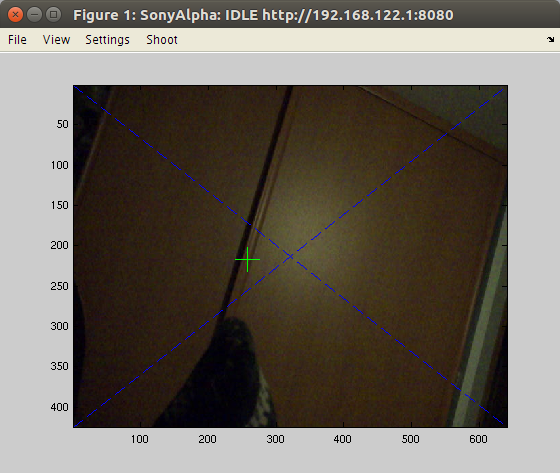
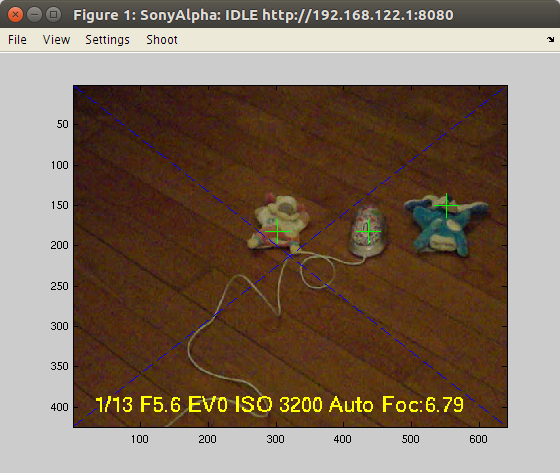
better support for communication errors. Show focus measure.

diff --git a/doc/SonyAlpha.html b/doc/SonyAlpha.html
@@ -321,7 +321,8 @@ href="https://github.com/farhi/matlab-sonyalpha/blob/master/doc/SonyAlpha_image.
       word-spacing: 0px; -webkit-text-stroke-width: 0px;
       text-decoration-style: initial; text-decoration-color: initial;"><br>
       The Plot window is shown when shooting stil images or updating the
-      LiveView. It contains the File, View, Settings and Shoot menus.</p>
+      LiveView. It contains the File, View, Settings and Shoot menus. It also shows the main
+   settings, as well as a focus quality measure (higher is better).</p>
     <p style="box-sizing: border-box; margin-top: 0px; margin-bottom:
       16px; color: rgb(36, 41, 46); font-family: -apple-system,
       BlinkMacSystemFont, &quot;Segoe UI&quot;, Helvetica, Arial,

diff --git a/sonyalpha.m b/sonyalpha.m
@@ -48,7 +48,8 @@ classdef sonyalpha < handle
   % ---------------------
   %
   %  The Plot window is shown when shooting stil images or updating the LiveView. 
-  %  It contains the File, View, Settings and Shoot menus.
+  %  It contains the File, View, Settings and Shoot menus. It also shows the main
+  %  settings, as well as a focus quality measure (higher is better).
   %
   %  The View menu allows to add Pointers and Marks on top of the current image. 
   %  These can be used for e.g. alignment. You can equally add Pointers directly
@@ -179,6 +180,7 @@ classdef sonyalpha < handle
       if ret % error
         disp(cmd)
         disp([ mfilename ': Connection failed: ' url])
+        disp('You need to restart the SonyAlpha with: start(s)');
         error(message);
       end
       
@@ -192,7 +194,7 @@ classdef sonyalpha < handle
         end
       catch
         disp(cmd)
-        error([ mfilename ': Invalid JSON result. Perhaps the connection failed ?' ])
+        disp([ mfilename ': Invalid JSON result. Perhaps the connection failed ?' ])
       end
 
       if isstruct(message) && isfield(message, 'result') && ischar(message.result)
@@ -273,6 +275,12 @@ classdef sonyalpha < handle
       
       ret  = curl(self, json, service);
     end % api
+    
+    function url=help(self)
+      % help(sb): open the Help page
+      url = fullfile('file:///',fileparts(which(mfilename)),'doc','SonyAlpha.html');
+      open_system_browser(url);
+    end
     
     % Camera Shooting ----------------------------------------------------------
     function ret = start(self)
@@ -407,20 +415,22 @@ classdef sonyalpha < handle
       
       % start the LiveView mode and get a frame
       filename = fullfile(tempdir, 'LiveView.jpg');
-      % get the livestream URL e.g. 
-      %   http://192.168.122.1:8080/liveview/liveviewstream
-      url = self.api('startLiveview');
-      cmd = [ 'ffmpeg  -ss 1 -i ' url ' -frames:v 1 ' filename ];
-      if strcmp(self.updateTimer.Running,'on')
-        if ispc
-          cmd = [ 'start /b ' cmd ];
-        else
-          cmd = [ cmd '&' ];
+      if ~exist(filename, 'file')
+        % get the livestream URL e.g. 
+        %   http://192.168.122.1:8080/liveview/liveviewstream
+        url = self.api('startLiveview');
+        cmd = [ 'ffmpeg  -ss 1 -i ' url ' -frames:v 1 ' filename ];
+        if strcmp(self.updateTimer.Running,'on')
+          if ispc
+            cmd = [ 'start /b ' cmd ];
+          else
+            cmd = [ cmd '&' ];
+          end
         end
+        
+        [ret, message] = system(cmd);
+        self.api('stopLiveView');
       end
-      
-      [ret, message] = system(cmd);
-      self.api('stopLiveView');
       
       % when timer is Running, the image will be displayed by its Callback
       if self.liveview && strcmp(self.updateTimer.Running, 'on') 
@@ -720,6 +730,8 @@ function h = plot_window(self)
       'Callback', {@MenuCallback, 'autoupdate', self }, 'Separator','on');
     if self.liveview, set(m1, 'Checked','on');
     else              set(m1, 'Checked','off'); end
+    uimenu(m0, 'Label', 'Help', ...
+      'Callback', {@MenuCallback, 'help', self });
     uimenu(m0, 'Label', 'About Sony Alpha', ...
       'Callback', {@MenuCallback, 'about', self });
     
@@ -825,8 +837,11 @@ function plot_pointers(src, evnt, self, cmd)
   h = findall(0, 'Tag', 'SonyAlpha_Image');
   int = 0;
   if ~isempty(h) % not implemented yet
-    im = get(h, 'CData');
-    % self.int = blurMetric(im);
+    im = double(get(h, 'CData'));
+    % a blurred image has smooth variations. We sum up diff
+    im1 = abs(diff(im,[], 1))/numel(im);
+    im2 = abs(diff(im,[], 2))/numel(im);
+    self.int = sum(im1(:))+sum(im2(:));
   end
 
   hold on
@@ -842,7 +857,7 @@ function plot_pointers(src, evnt, self, cmd)
   
   % now display the shutter F exp ISO
   wb = strtok(self.whiteBalance); if numel(wb)> 4, wb=wb(1:4); end
-  settings = sprintf('%s F%s EV%d ISO %s %s %f', ...
+  settings = sprintf('%s F%s EV%d ISO %s %s Foc:%.2f', ...
     self.shutterSpeed, self.fNumber, self.exposureCompensation, ...
     self.isoSpeedRate, wb, self.int);
   t = text(0.05*max(xl), .95*max(yl), settings);
@@ -851,6 +866,24 @@ function plot_pointers(src, evnt, self, cmd)
   set(fig, 'HandleVisibility','off', 'NextPlot','new');
   
 end % plot_pointers
+
+function ret=open_system_browser(url)
+  % opens URL with system browser. Returns non zero in case of error.
+  if strncmp(url, 'file://', length('file://'))
+    url = url(8:end);
+  end
+  ret = 1;
+  if ismac,      precmd = 'DYLD_LIBRARY_PATH= ;';
+  elseif isunix, precmd = 'LD_LIBRARY_PATH= ; '; 
+  else           precmd=''; end
+  if ispc
+    ret=system([ precmd 'start "' url '"']);
+  elseif ismac
+    ret=system([ precmd 'open "' url '"']);
+  else
+    [ret, message]=system([ precmd 'xdg-open "' url '"']);
+  end
+end % open_system_browser
 
 
 % ------------------------------------------------------------------------------
@@ -899,7 +932,8 @@ end % ButtonDownCallback
 function TimerCallback(src, evnt)
   % TimerCallback: update from timer event
   self = get(src, 'UserData');
-  if isvalid(self), self.getstatus; 
+  if isvalid(self), 
+    try; self.getstatus; end
   else delete(src); return; end
   
   % handle continuous shooting mode: do something when camera is IDLE

diff --git a/README.md b/README.md
@@ -60,7 +60,8 @@ Using the Plot Window
 ![Image of SonyAlpha](https://github.com/farhi/matlab-sonyalpha/blob/master/doc/SonyAlpha_image.png)
 
   The Plot window is shown when shooting stil images or updating the LiveView. It
-  contains the File, View, Settings and Shoot menus.
+  contains the File, View, Settings and Shoot menus. It also shows the main
+  settings, as well as a focus quality measure (higher is better).
 
   The View menu allows to add Pointers and Marks on top of the current image. These
   can be used for e.g. alignment. You can equally add Pointers directly
